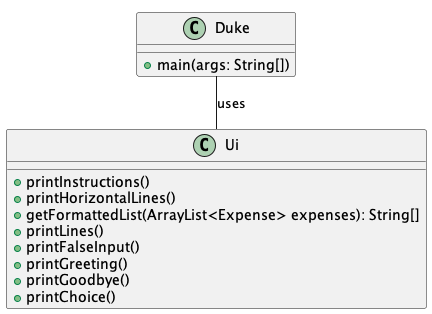
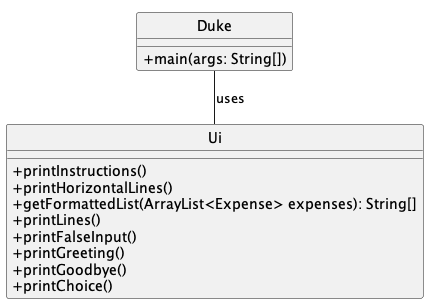
Add parser component to DG and fix class diagram style

Changed region(s): [[0.0, 0.0296, 1.0, 0.977]]

diff --git a/docs/DeveloperGuide.md b/docs/DeveloperGuide.md
@@ -26,6 +26,14 @@
 ## Design 
 ### Architecture
 
+### Parser Component
+The `Parser` class handles the parsing of user input, executing the appropriate tasks
+or throwing relevant errors.
+* `Parser` first receives user input from `Duke` through `Parser::handleCmd`
+* Depending on the command given, `Parser` will then execute the command on the `ExpenseManager`instance, or throw a `DukeException`, which will be caught by `Duke`
+### **Sequence Diagram**
+<img alt="parser sequence diagram" src="diagrams/parser.png" width="280" />
+
 ### UI Component
 The API of this component is specified in Ui.java \
 The Ui class contains several static methods which display messages to the user when the user interacts with program.\
